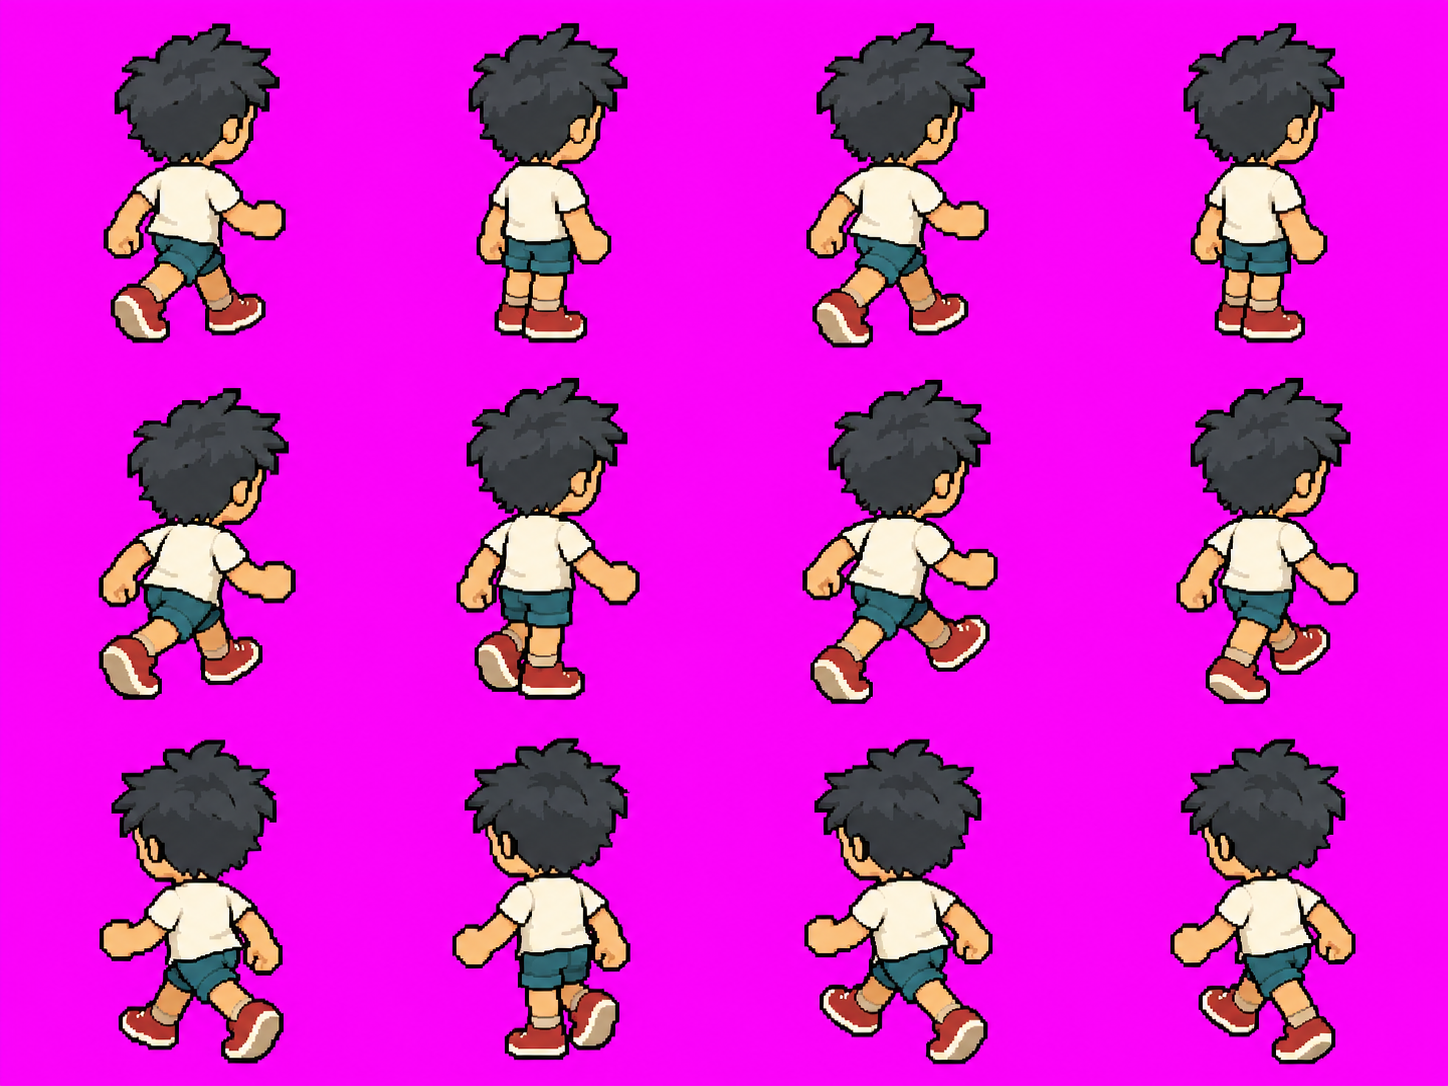
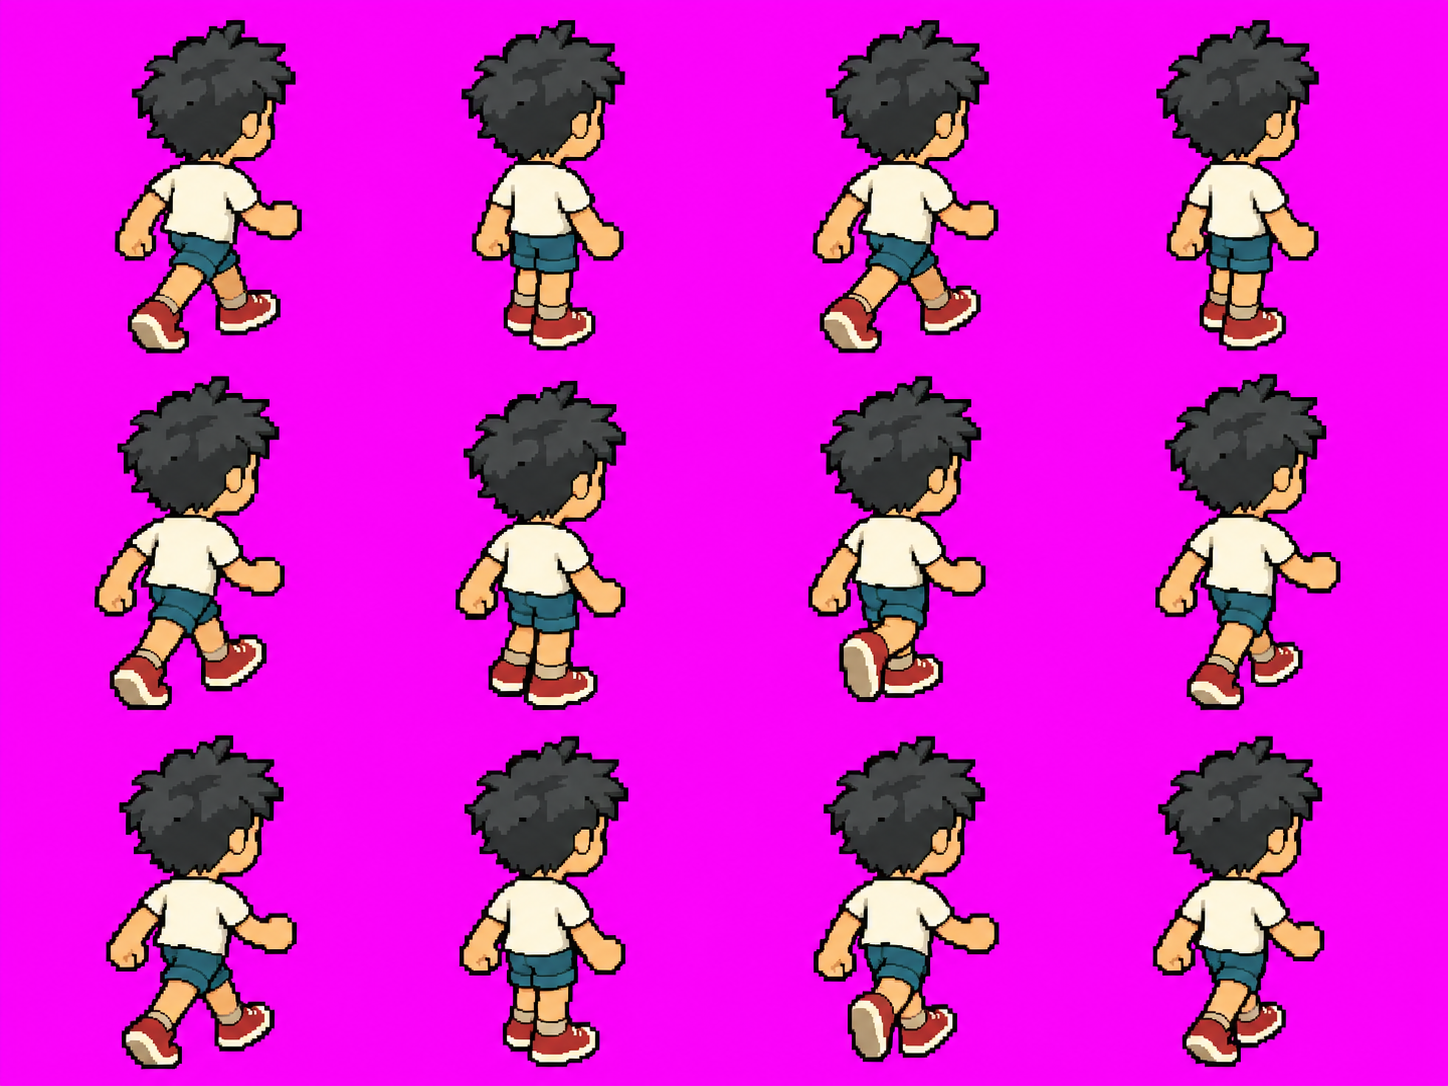
Protagonista: i tre difetti provati nel banco (secondo passo di schiena, tremore, passo corto)
Rifatti NE, NNE, N della camminata a 8 pose (il secondo passo era girato dall'altra parte), appoggio dei cicli sulla testa
(strumenti/ancora_cicli.py), lezioni in STILE: il secondo passo non è lo specchio, disegni al secondo contro velocità.

diff --git a/strumenti/ancora_cicli.py b/strumenti/ancora_cicli.py
@@ -1,0 +1,46 @@
+"""Riancora i cicli di camminata e corsa sulla testa: il punto d'appoggio (ax) di ogni disegno cade sul centro dei capelli.
+
+pixel.py mette l'appoggio al centro del ritaglio della figura: coi passi la figura si allarga ora davanti ora dietro e la testa
+balla di 1-3 pixel da un disegno all'altro (a schermo, con i pixel grossi: un tremore). Qui l'appoggio segue la testa, che così
+sta ferma mentre gambe e braccia fanno il passo. Si cambia solo elenco.json, i PNG restano com'erano.
+Uso: python strumenti/ancora_cicli.py personaggi/<id>/sprite [mossa mossa ...]   (dopo pixel.py e nomi_8pose.py)
+Predefinite: cammina, camminata, corsa. Numeri: prima e dopo, quanto balla la testa (pixel d'arte) per ogni vista e mossa.
+"""
+import json
+import os
+import re
+import sys
+
+import numpy as np
+from PIL import Image
+
+cartella = sys.argv[1]
+mosse = sys.argv[2:] or ['cammina', 'camminata', 'corsa']
+elenco_p = os.path.join(cartella, 'elenco.json')
+elenco = json.load(open(elenco_p, encoding='utf-8'))
+
+
+def centro_testa(nome):
+    """x del centro dei pixel scuri (capelli e contorno) nel 38 % più alto della figura."""
+    a = np.array(Image.open(os.path.join(cartella, nome + '.png')).convert('RGBA'))
+    righe = np.nonzero(a[..., 3].any(1))[0]
+    y0, y1 = righe.min(), righe.max()
+    alto = a[y0:y0 + max(4, int((y1 - y0 + 1) * 0.38))]
+    scuri = (alto[..., 3] > 0) & (alto[..., :3].astype(int).sum(-1) < 200)
+    xs = np.nonzero(scuri)[1]
+    return float(xs.mean())
+
+
+gruppi = {}
+for nome in elenco:
+    m = re.match(r'^([A-Z]+)_([a-z0-9]+)_(\d+)$', nome)
+    if m and m.group(2) in mosse:
+        gruppi.setdefault((m.group(1), m.group(2)), []).append(nome)
+for (vista, mossa), nomi in sorted(gruppi.items()):
+    nomi.sort(key=lambda n: int(n.rsplit('_', 1)[1]))
+    prima = [centro_testa(n) - elenco[n]['ax'] for n in nomi]
+    for n in nomi:
+        elenco[n]['ax'] = int(round(centro_testa(n)))
+    dopo = [centro_testa(n) - elenco[n]['ax'] for n in nomi]
+    print(f'{vista:3} {mossa:9} la testa balla di {max(prima) - min(prima):4.1f} px prima, {max(dopo) - min(dopo):4.1f} dopo')
+json.dump(dict(sorted(elenco.items())), open(elenco_p, 'w', encoding='utf-8'), indent=0)

diff --git a/personaggi/protagonista/fogli/REGISTRO.md b/personaggi/protagonista/fogli/REGISTRO.md
@@ -17,3 +17,4 @@
 - 2026-10-30 · Riccardo + Claude · `pixel.py`, `foglio.py`, Fenaki · 216 sprite (6 mosse × 9 viste × 4 disegni), alti 48 px, 20 colori, nessun avviso (tranne i «doppioni» attesi della camminata di metro). Fenaki: il giro delle 9 viste dello scatto e il passaggio disegno 1 → 2 → 3 sulla E leggibili, con l'arco del baricentro. `_FOGLIO_sprite.jpg` aggiornato (6 mosse in fila). Non ancora fatto: camminata e corsa a 8 pose.
 - 2026-10-30 · Riccardo + Claude · Codex · vista del modello + disegno approvato + foglio a pixel del protagonista della stessa vista (Giro 1) o della vista vicina (Giro 2) · camminata e corsa a 8 pose, 18 fogli (`<vista>_cammina-passo1-passo2.png`, `<vista>_cammina-corsa1-corsa2.png`): le righe A e B del ciclo professionale di F3 (contatto, giù, passaggio, su; poi l'altro piede) come mosse `passo1`/`passo2` e `corsa1`/`corsa2` da 4 disegni, la camminata di metro in prima riga. 18 fogli su 18 buoni al primo colpo, 2 Codex alla volta, nessun doppione (md5). Taglia della testa (pixel di capelli) entro il 12 % di quella della camminata a 4 disegni in tutte le 9 viste. `pixel.py` li chiama `passo1_1-4`...: `strumenti/nomi_8pose.py` li porta ai nomi di F3 (`camminata_1-8`, `corsa_1-8`) e toglie le mezze mosse. Dopo ogni `pixel.py` si rilancia. 360 sprite in tutto. Foglio per guardarli: `design/protagonista_camminata_corsa.jpg`. Non ancora approvati dal gruppo.
 - 2026-10-30 · Jack, Riccardo e Alberto · ok (3 su 3, a parole, dopo aver visto la galleria) a tenere nell'Atelier camminata, scatto, bevi, leggera, pesante, onda e le 8 pose di camminata e corsa del protagonista, in tutte e 9 le viste. **Non** è l'approvazione come protagonista definitivo di MAREA: quella non è ancora decisa. `scheda.json` resta `in lavorazione`, il metro di STILE resta F3.
+- 2026-10-30 · Riccardo + Claude · prova nel banco di Jack (`marea-prova-look` in locale, `?look=sprite&personaggio=protagonista`, sprite letti da questa galleria) · Riccardo ha segnalato tre difetti: (1) la camminata «pattina e saltella, come un moonwalk»; (2) nelle tre direzioni con W (viste di schiena) «il personaggio continua a voltarsi a destra e a sinistra»; (3) un po' di tremore. Cause misurate sugli sprite: (1) a 4,2 unità al secondo il passo disegnato (18 px d'arte, 0,94 unità) richiederebbe 18 disegni al secondo (28 correndo): a 10 e 14 i piedi scorrevano al 56 % e al 50 % del terreno (la camminata a 4 disegni, a 8,1, al 79 %); (2) in NE, NNE e N della camminata a 8 pose il secondo passo era disegnato con la testa girata dall'altra parte (centro della pelle rispetto ai capelli +5 px nei disegni 1-4, −5 nei disegni 5-8); (3) la testa ballava fino a 4,3 px da un disegno all'altro nei cicli (soprattutto la corsa), perché `pixel.py` mette l'appoggio al centro del ritaglio. Correzioni: `NE_`, `NNE_`, `N_cammina-passo1-passo2.png` rifatti con «this second step is NOT a mirror image…» (differenza fra le due metà: 10,7 → 0,3 in NE, 10,6 → 0,2 in NNE, 3,7 → 1,9 in N; i vecchi in `fogli/scarti/`); `strumenti/ancora_cicli.py` mette l'appoggio sul centro della testa (corsa: 2,6-4,3 → 0,5-0,9 px); nel banco i disegni dei cicli avanzano con la distanza percorsa e `?vel=` regola la velocità (0,6 di serie con `?personaggio`).

diff --git a/STILE.md b/STILE.md
@@ -48,6 +48,9 @@ Dai 12 principi dell'animazione di Disney (Thomas e Johnston, *The Illusion of L
 - **Allega il foglio a pixel approvato della stessa vista**: con quello Codex ha fatto 9 fogli su 9 buoni al primo colpo.
 - Spazio vuoto fra le righe: il generatore fa salire i capelli nella riga sopra.
 - **Codex in parallelo**: con 4 fogli alla volta due possono uscire identici (copiano l'ultima immagine generata, nella stessa cartella di Codex). Dopo ogni lotto confronta gli `md5sum` dei fogli; se due coincidono, rifai una vista alla volta (`genera.py … --rifai --paralleli 1`).
+- **Cicli a 8 pose: il secondo passo non è lo specchio del primo.** Nelle viste di schiena (NE, NNE, N) la prima volta il secondo passo usciva con la testa girata dall'altra parte (centro della pelle rispetto ai capelli +5 px nei primi 4 disegni, −5 negli ultimi 4): in gioco il personaggio «si voltava a destra e a sinistra» a ogni passo. Nel prompt di `passo2`/`corsa2` c'è «this second step is NOT a mirror image… the same side of the head stays visible». Controllo: per ogni vista la differenza fra le due metà del ciclo (script nel REGISTRO del protagonista) deve restare sotto 3 px.
+- **Passi e velocità.** I piedi stanno fermi a terra solo se i disegni al secondo = disegni per passo × velocità / lunghezza del passo disegnato. A 4,2 unità al secondo, un passo di 0,94 unità e 4 disegni per passo servirebbero 18 disegni al secondo (28 correndo): a 10 e 14 i piedi scorrevano al 56 % e al 50 % del terreno («moonwalk»). Il motore deve legare il disegno alla distanza percorsa, non al tempo, e la velocità va scelta sul passo disegnato.
+- **Dopo `pixel.py`, per i cicli:** `strumenti/nomi_8pose.py` (nomi di F3), poi `strumenti/ancora_cicli.py` (l'appoggio sul centro della testa: nella corsa la testa ballava di 2,6-4,3 px da un disegno all'altro, ora 0,5-0,9).
 - **Il bastone di ciano**: di spalle la prima volta usciva sottile e quasi sparito sotto il contorno (1-5 pixel ciano contro 17-25 delle altre viste). Nel prompt serve «bright pure cyan #00FFFF, at least 2 full pixels thick along its whole length, drawn on top of everything». Si controlla contando i pixel `#00FFFF` per sprite.
 
 ## Generatori
